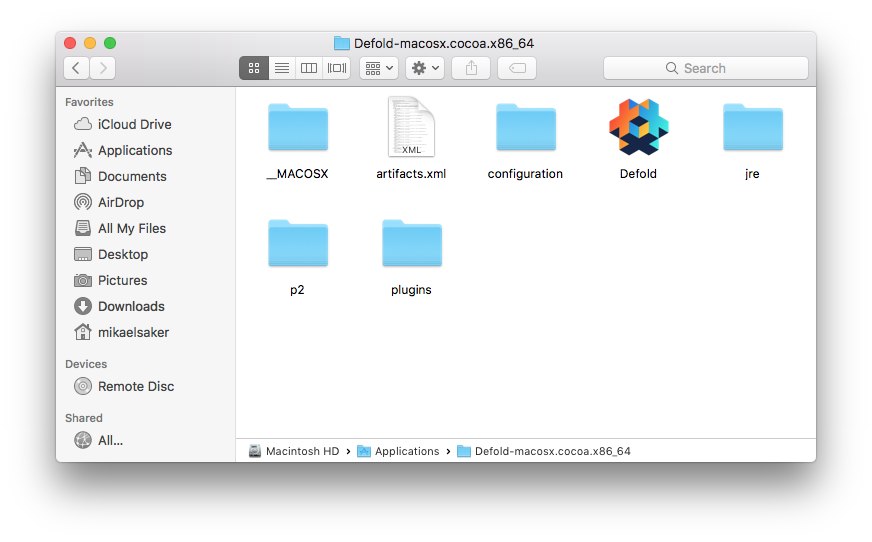
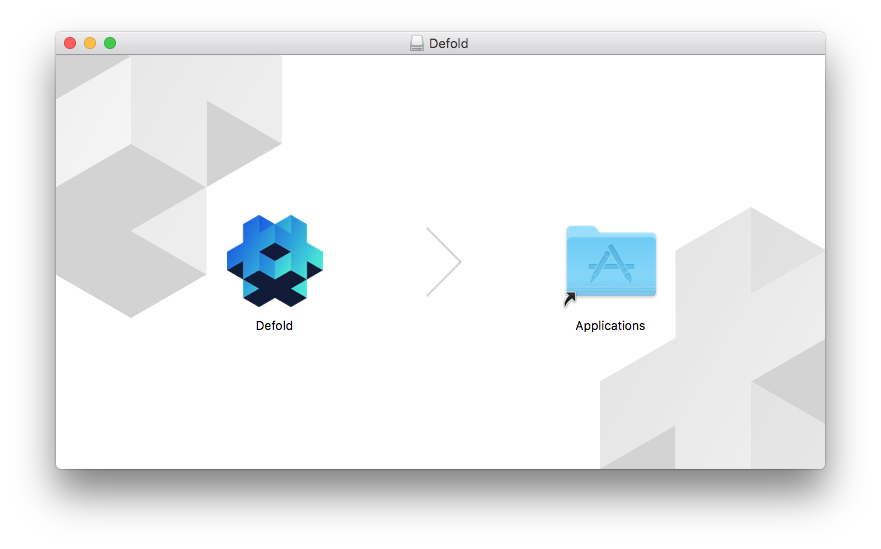
Updated the installation manual for ed2.

diff --git a/docs/en/shared/install.md b/docs/en/shared/install.md
@@ -9,46 +9,46 @@ Log in to the [Defold Dashboard](//dashboard.defold.com) where you will find a "
 Click "Download editor" and select the right package for your computer:
 
 * MacOS
-* Windows
-* Linux (32 bit)
+* Windows (32 bit)
+* Windows (64 bit)
 * Linux (64 bit)
 
-There are also pre-release builds of the brand new [Editor 2](/editor-two) avaliable.
+There are also builds of the legacy editor 1 avaliable.
 
 ## Installation
 
 Installation on MacOS
 : The downloaded file is a DMG image containing the program.
 
-  1. Locate the file "Defold-macosx.cocoa.x86_64.dmg" and double click it to open the image.
-  2. Drag the folder "Defold-macosx.cocoa.x86_64" to the "Applications" folder link.
+  1. Locate the file "Defold-x86_64-darwin.dmg" and double click it to open the image.
+  2. Drag the application "Defold" to the "Applications" folder link.
 
-  To start the editor, open the folder "Defold-macosx.cocoa.x86_64" in your "Applications" folder and <kbd>double click</kbd> the file "Defold".
+  To start the editor, open your "Applications" folder and <kbd>double click</kbd> the file "Defold".
 
   ![Defold MacOS](../shared/images/macos_content.png)
 
 Installation on Windows
 : The downloaded file is a ZIP archive that needs to be extracted:
 
-  1. Locate the archive file "Defold-win32.win32.x86.zip", <kbd>press and hold</kbd> (or <kbd>right-click</kbd>) the folder, select *Extract All*, and then follow the instructions to extract the archive to a folder named "Defold-win32.win32.x86".
-  2. Move the folder "Defold-win32.win32.x86" to "C:\Program Files (x86)\"
+  1. Locate the archive file "Defold-x86_64-win32.zip" (or "Defold-x86-win32.zip" for 32 bit Windows), <kbd>press and hold</kbd> (or <kbd>right-click</kbd>) the folder, select *Extract All*, and then follow the instructions to extract the archive to a folder named "Defold-win32.win32.x86".
+  2. Move the folder "Defold-x86_64-win32" to "C:\Program Files (x86)\"
   
-  To start the editor, open the folder "Defold-win32.win32.x86" and <kbd>double click</kbd> the file "Defold.exe".
+  To start the editor, open the folder "Defold-x86_64-win32" and <kbd>double click</kbd> the file "Defold.exe".
 
   ![Defold windows](../shared/images/windows_content.png)
 
 Installation on Linux
 : The downloaded file is a ZIP archive that needs to be extracted:
 
-  1. From a terminal, locate the archive file "Defold-linux.gtk.x86.zip" (32 bit) or "Defold-linux.gtk.x86_64.zip" (64 bit) and unzip it to a target Directory.
+  1. From a terminal, locate the archive file "Defold-x86_64-linux.zip" unzip it to a target Directory.
 
      ```bash
-     $ unzip Defold-linux.gtk.x86_64.zip -d Defold
+     $ unzip Defold-x86_64-linux.zip -d Defold
      ``` 
 
-  To start the editor, change directory to where you extracted the application, then run the `Defold-linux.sh` shell script.
+  To start the editor, change directory to where you extracted the application, then run the `Defold` executable, or <kbd>double click</kbd> it on your desktop.
 
   ```bash
   $ cd Defold
-  $ ./Defold-linux.sh
+  $ ./Defold
   ``` 

diff --git a/docs/en/manuals/sound.md b/docs/en/manuals/sound.md
@@ -43,7 +43,7 @@ When you have a sound component set up properly, you can cause it to play its so
 msg.post("go#sound", "play_sound", {delay = 1, gain = 0.5})
 ```
 
-Each message sent to a component will cause it to play another instance of the sound, until the available sound voices are full. It is advised that you implement some sort of gating and sound grouping mechanism.
+Each message sent to a component will cause it to play another instance of the sound, until the available sound buffer is full and the engine will print errors in the console. It is advised that you implement some sort of gating and sound grouping mechanism.
 
 ## Gain
 
